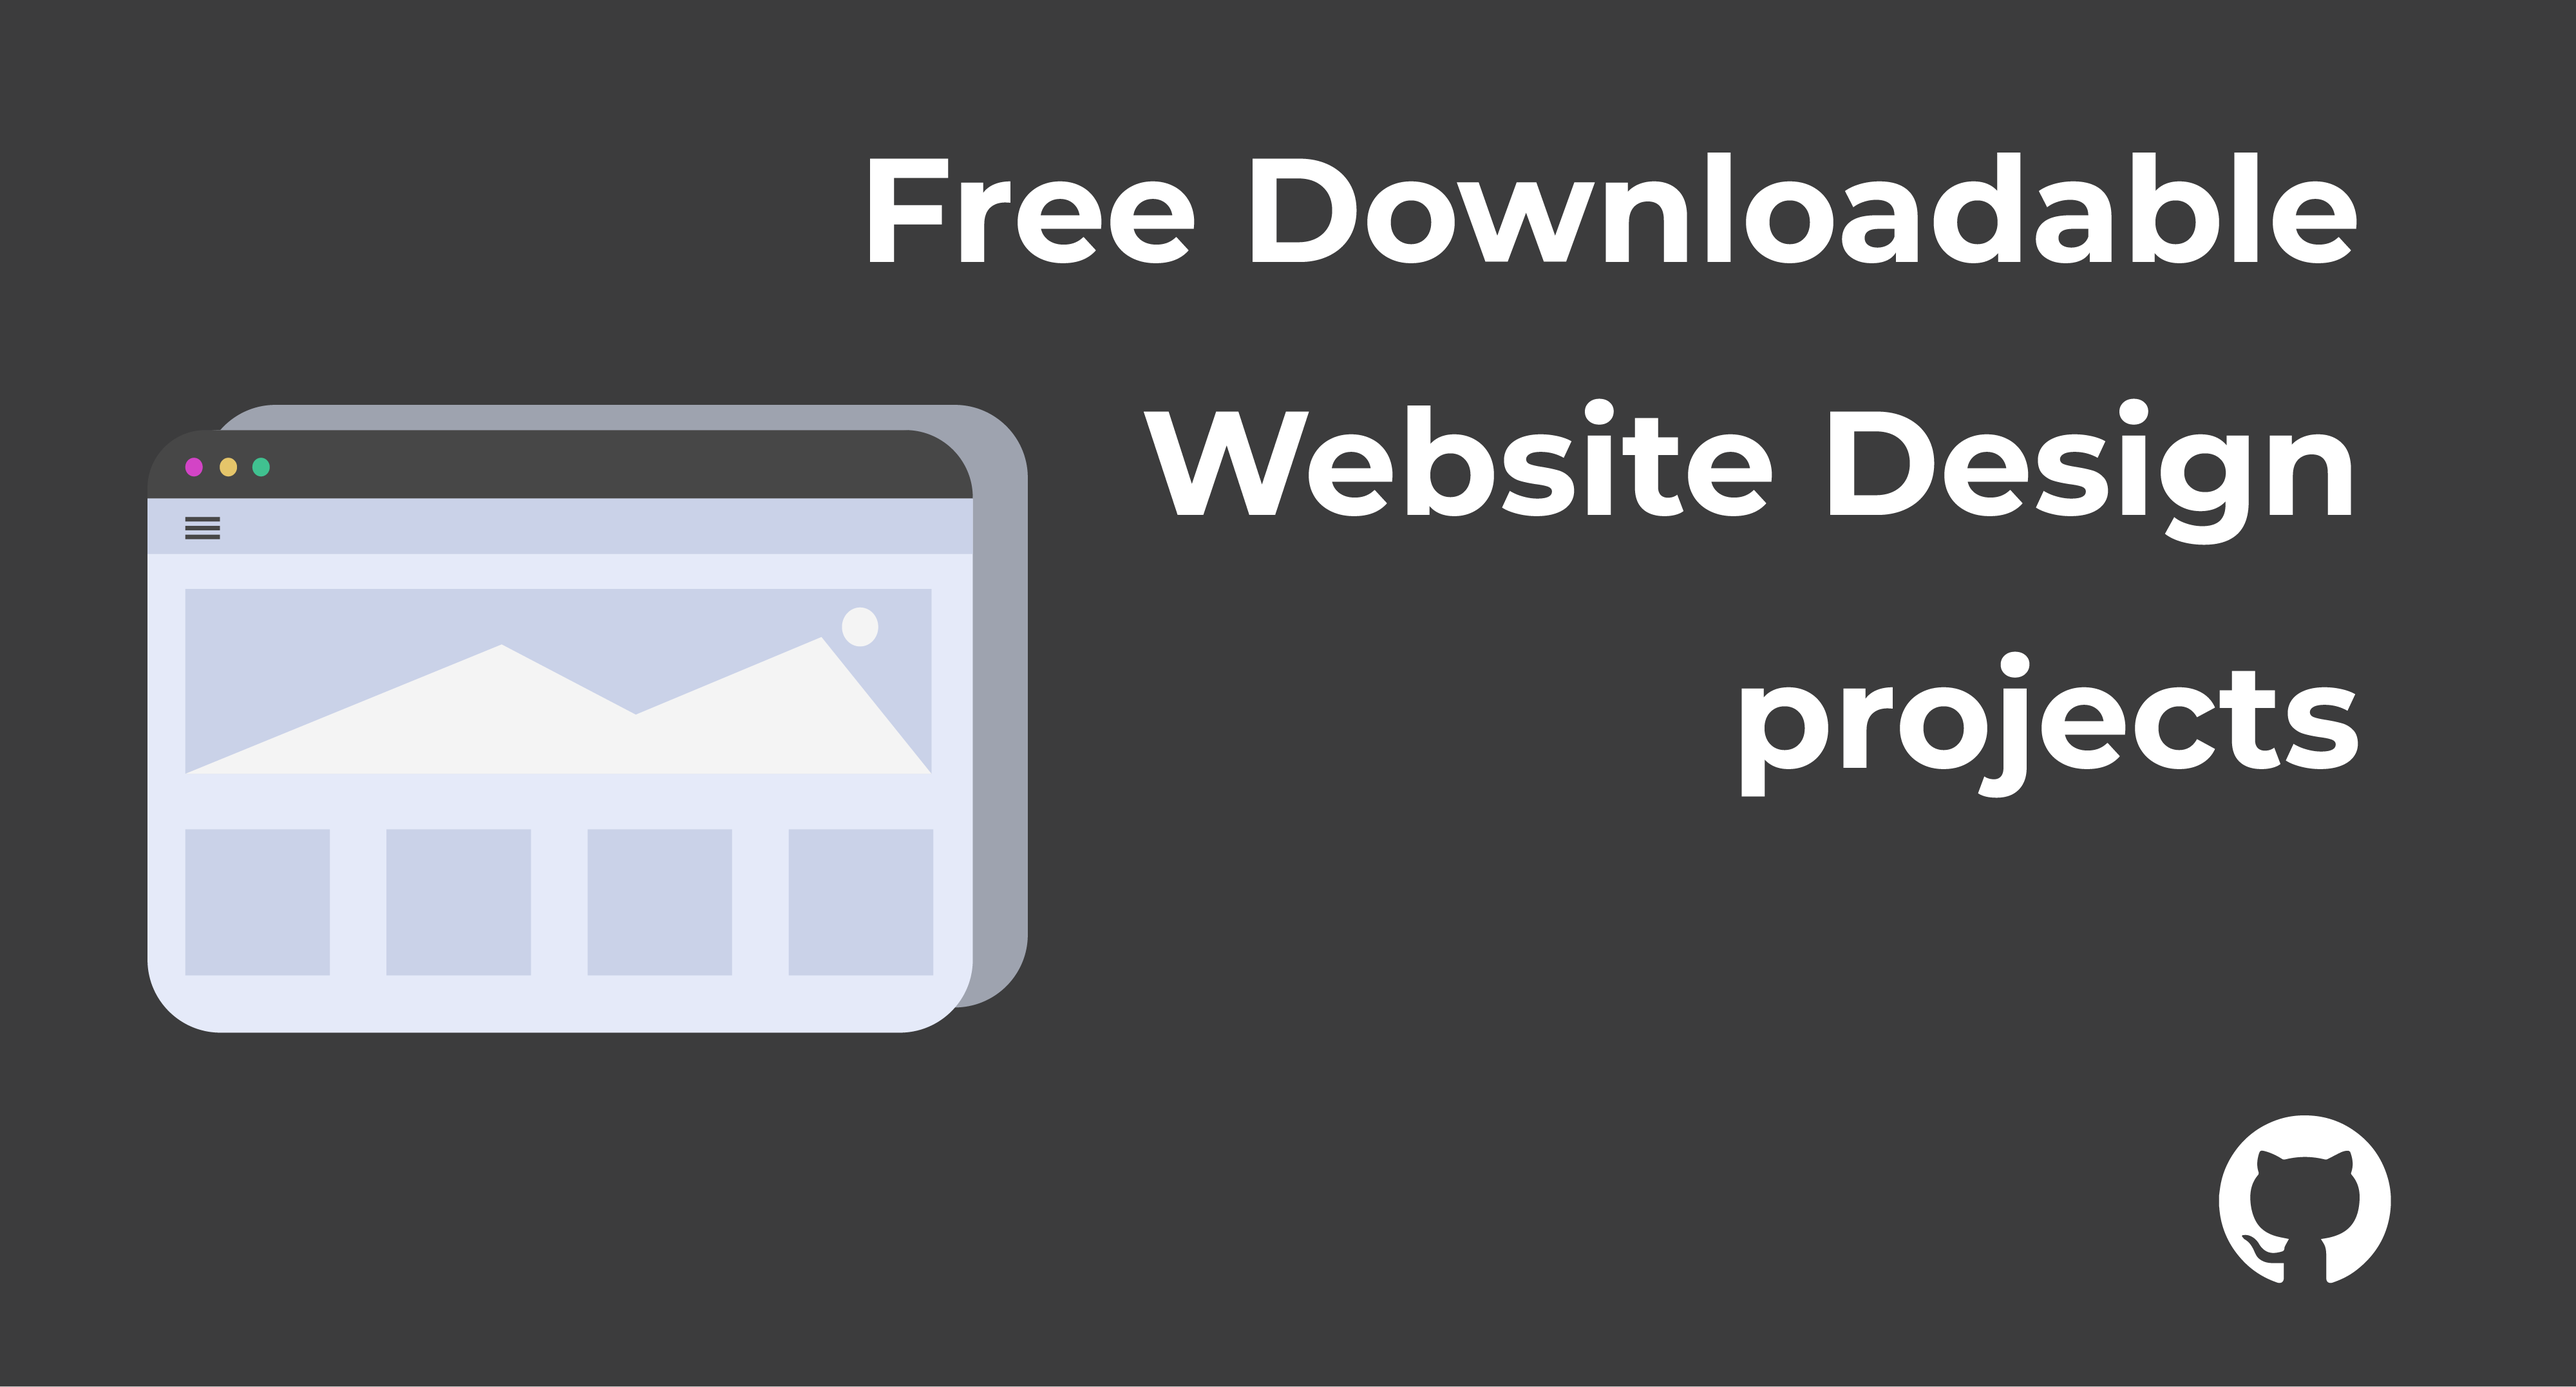
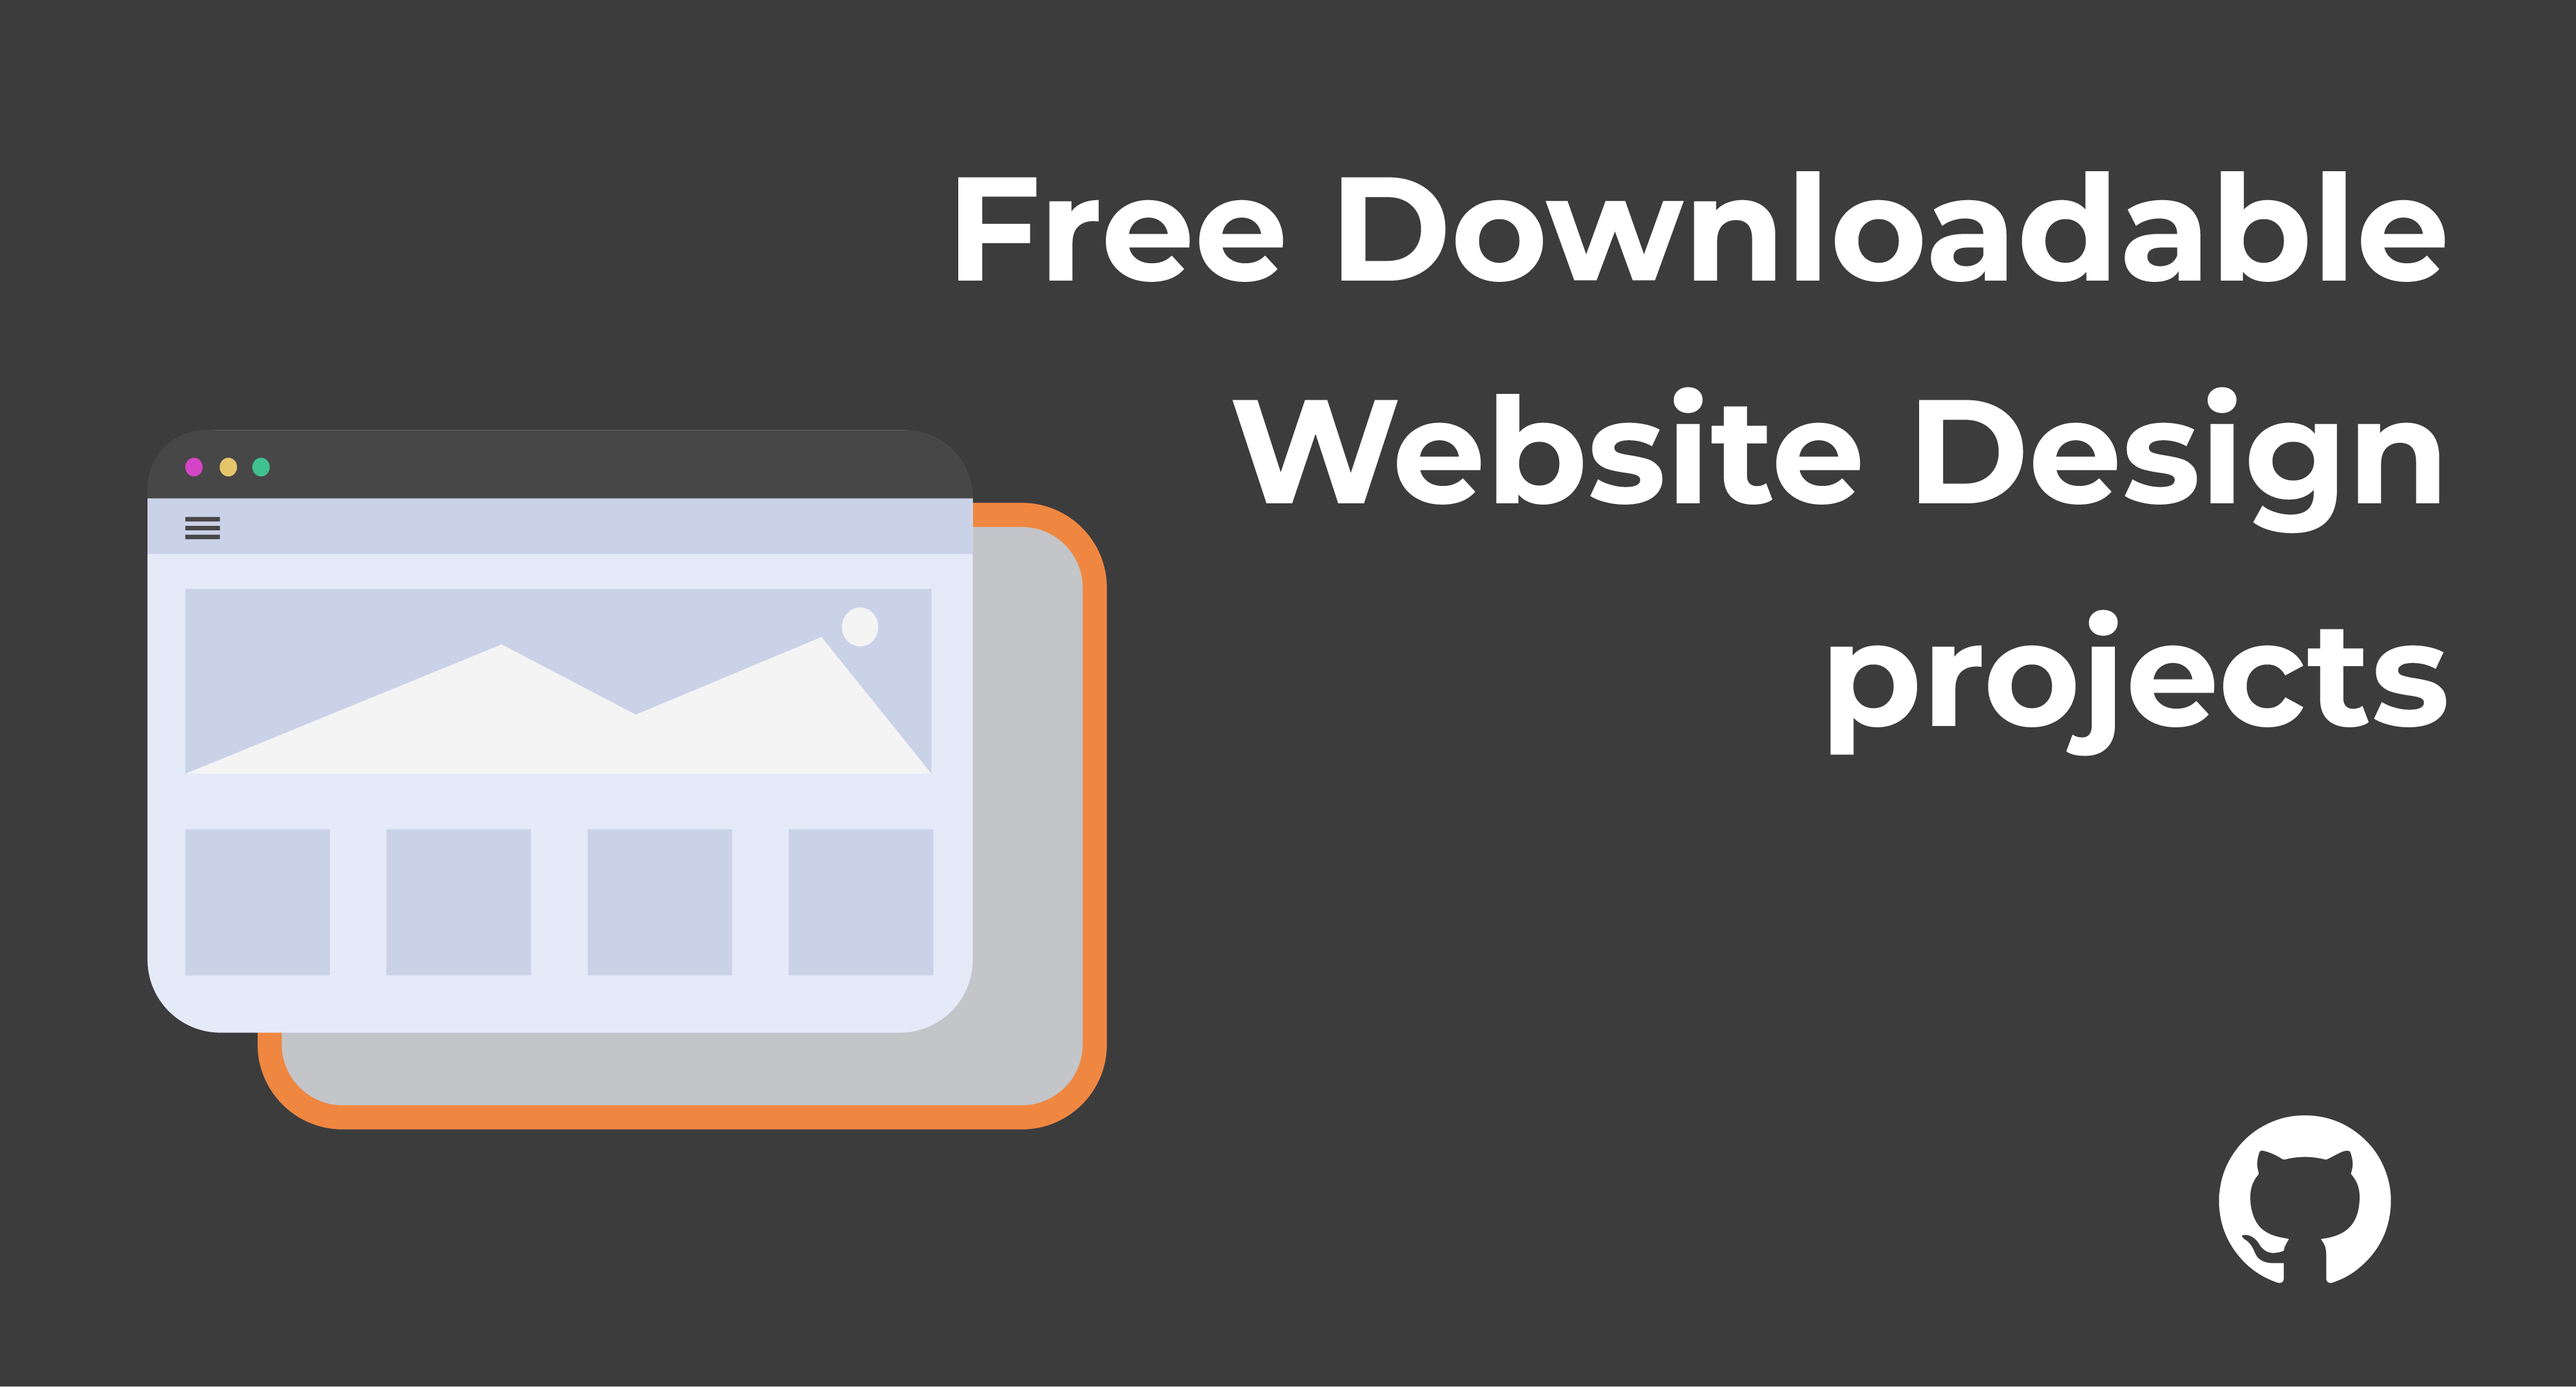
Project image modified

diff --git a/project.html b/project.html
@@ -58,7 +58,7 @@
                 <a href="#">
                     <div class="project__grid-item">
         
-                        <div class="project__image" style="background-image: url('images/project/easythingz-project1.png');"></div>
+                        <div class="project__image" style="background-image: url('images/project/downloadable-website-design-projects.png');"></div>
         
                         <div class="project__text p-1">
                             <h3>Easybank Website design</h3>
@@ -75,7 +75,7 @@
                 <a href="#">
                     <div class="project__grid-item">
         
-                        <div class="project__image" style="background-image: url('images/project/easythingz-project1.png');"></div>
+                        <div class="project__image" style="background-image: url('images/project/downloadable-website-design-projects.png');"></div>
         
                         <div class="project__text p-1">
                             <h3>Easybank Website design</h3>
@@ -92,7 +92,7 @@
                 <a href="#">
                     <div class="project__grid-item">
         
-                        <div class="project__image" style="background-image: url('images/project/easythingz-project1.png');"></div>
+                        <div class="project__image" style="background-image: url('images/project/downloadable-website-design-projects.png');"></div>
         
                         <div class="project__text p-1">
                             <h3>Easybank Website design</h3>
